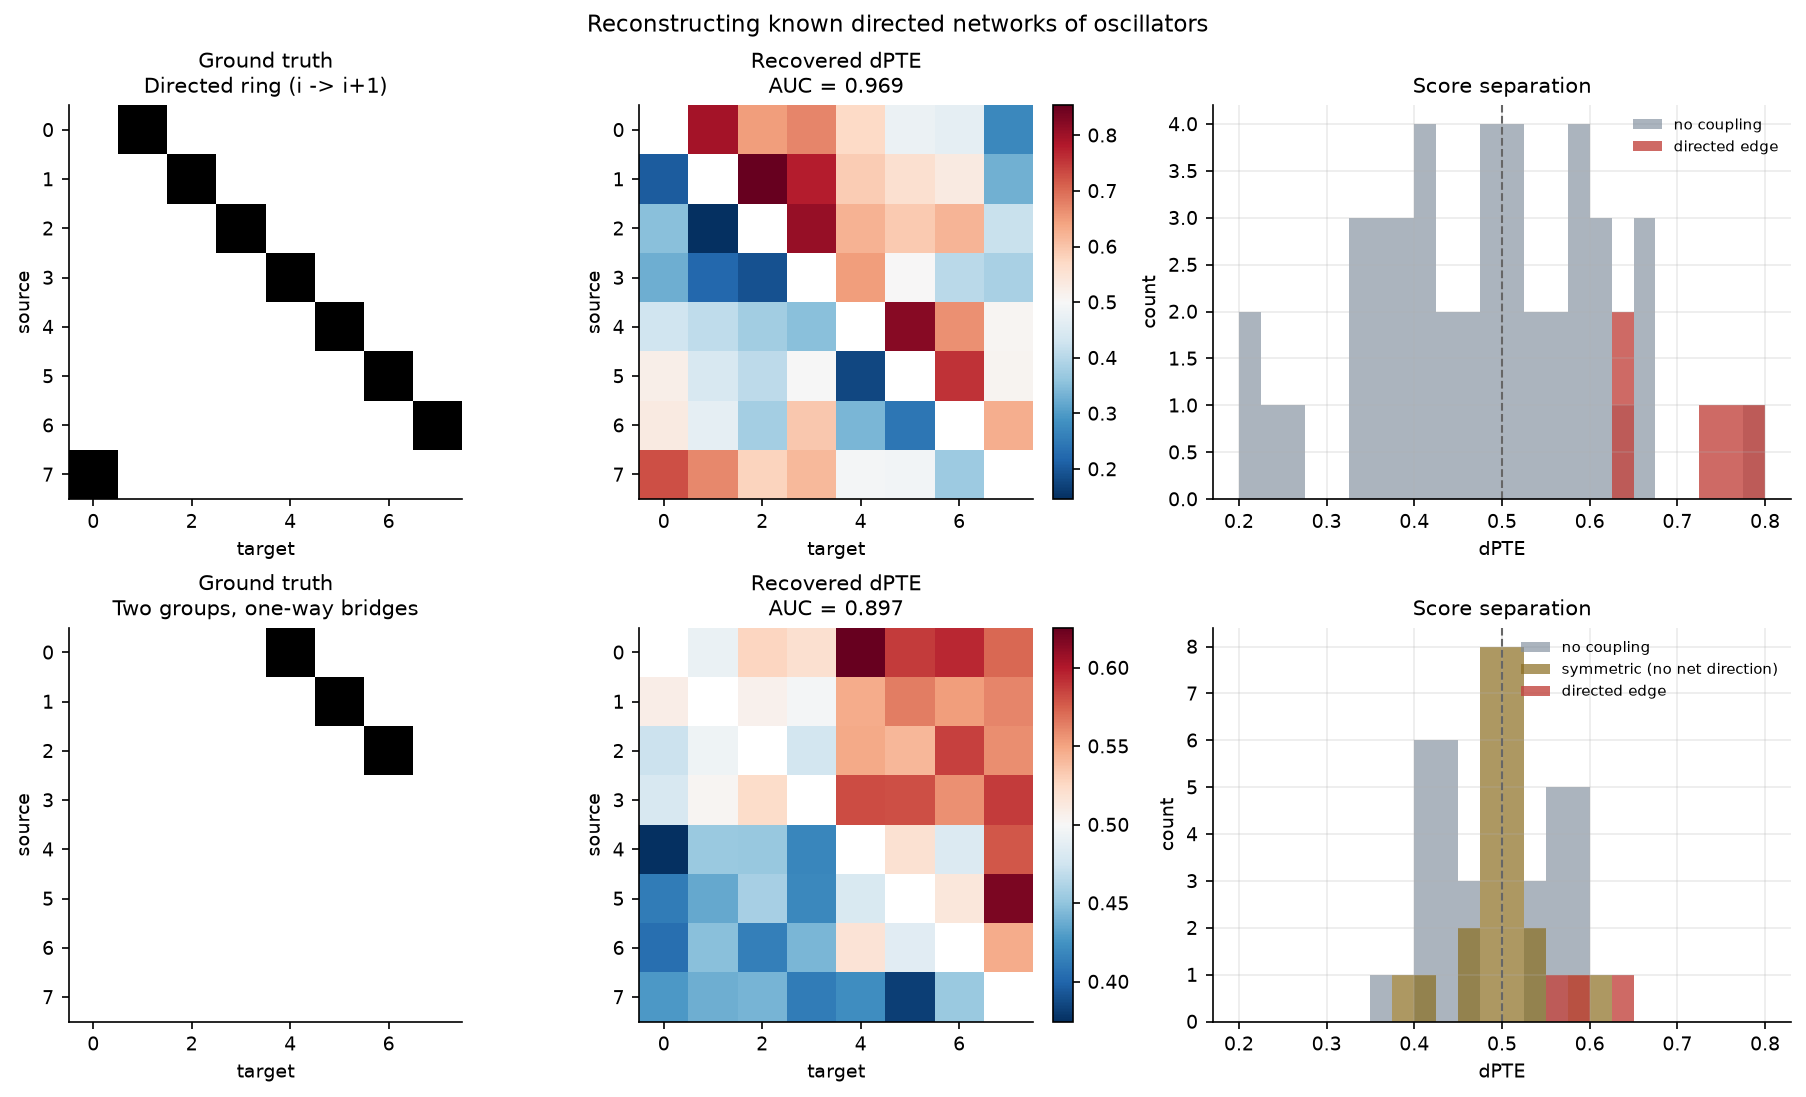
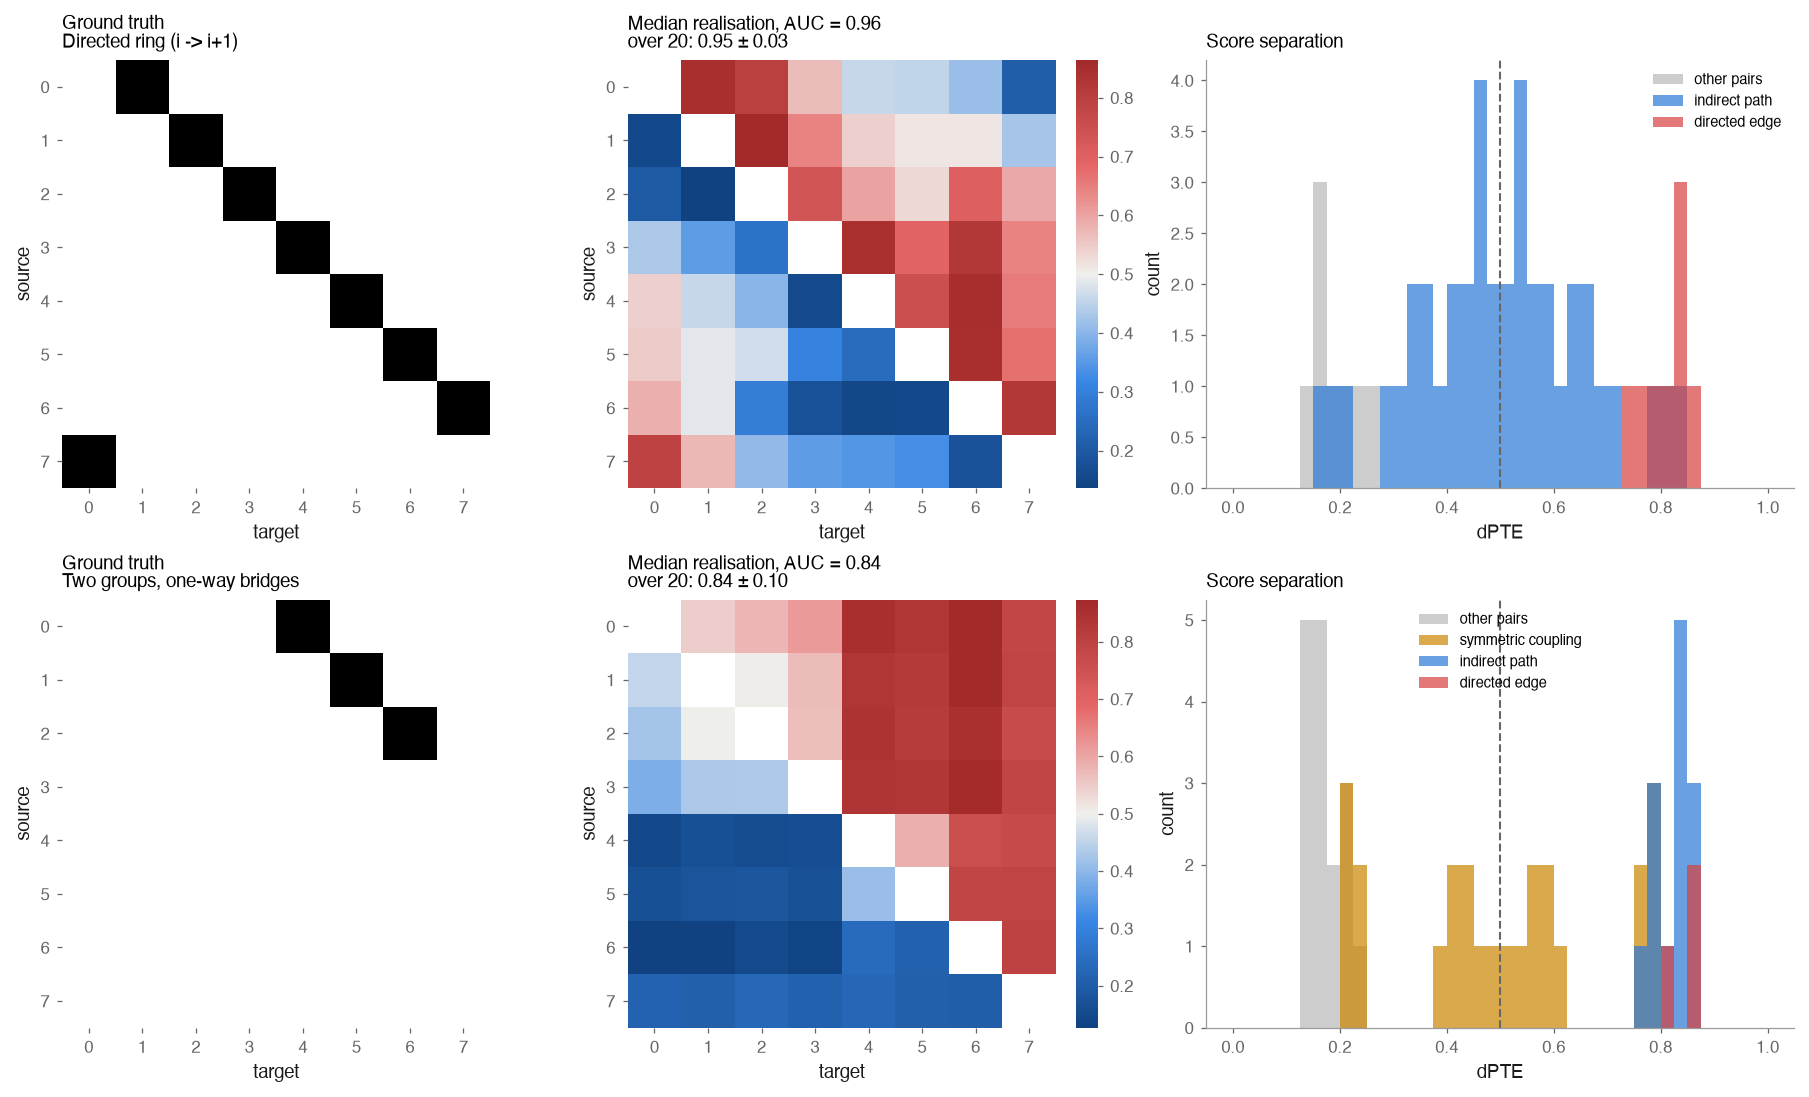
fix(examples): score the Kuramoto networks over 20 realisations (#107)
The published AUC 0.96-1.00 came from seed 1. Over 20 realisations the
ring scores 0.95 +- 0.03 and the two groups 0.84 +- 0.10 (as low as
0.59). The spread is indirect flow: a bridge's input spreads through its
synchronised group, so bridges beat their reverse (0.97) but not the
indirect A -> B pairs (0.67).

The check that symmetric pairs sit at 0.5 averaged both orientations,
which is 0.5 by construction. Measured by distance from 0.5, detuned
symmetric pairs read as directed (0.11, against 0.19 for a bridge), so
symmetric topologies are negative controls only with freq_spread=0.

diff --git a/examples/kuramoto_network.py b/examples/kuramoto_network.py
@@ -4,11 +4,23 @@ Can pyPTE reconstruct a known directed network of oscillators?
 
 Two ground-truth topologies are simulated with delayed Kuramoto oscillators:
 a directed ring, where every node drives its successor, and two internally
-dense groups joined by a single one-way bridge.
+dense groups joined by one-way bridges. Each is run over 20 noise
+realisations, because one realisation can flatter or sink the score.
 
 Ground truth is sparse but dPTE gives every ordered pair a value, so the
 recovered matrix is dense no matter what. Scored with AUC rather than a
 hand-picked threshold: the chance a true edge outranks a non-edge.
+
+The ring is recovered reliably (AUC 0.95 +- 0.03). The two groups are not
+(0.84 +- 0.10, as low as 0.59): a bridge's input spreads through its whole,
+tightly synchronised group, so every A -> B pair carries real flow. Bridges
+outrank their own reverse almost always (0.97) but outrank those indirect
+paths only 0.67 of the time.
+
+Symmetric coupling does not read as 0.5 either. The oscillators' natural
+frequencies differ, and that alone gives each symmetric pair a direction,
+on average 0.11 from 0.5 against 0.19 for a bridge; with identical
+frequencies it drops to 0.02.
 
 Run with::
 
@@ -65,46 +77,72 @@ def evaluate(coupling: npt.NDArray, *, n_samples: int, seed: int) -> dict:
     dPTE, _ = PTE(signal)
 
     directed = kuramoto.net_flow(coupling)
-    # symmetric pairs are coupled but carry no net direction, so they belong to
-    # neither class: scoring them as edges would punish the correct answer
+    # symmetric pairs have no direction in the ground truth, so they belong to
+    # neither class
     symmetric = (coupling > 0) & (coupling == coupling.T)
+    # pairs a directed path joins without an edge of their own: real flow, but
+    # indirect, so a non-edge that should not be expected to score at 0.5
+    reach = np.linalg.matrix_power(
+        np.eye(len(coupling)) + (coupling > 0), len(coupling)
+    )
+    indirect = (reach > 0) & ~directed & ~directed.T & ~symmetric
+    np.fill_diagonal(indirect, False)
 
     considered = off_diagonal(~symmetric)
     truth = off_diagonal(directed)[considered]
     scores = off_diagonal(dPTE)[considered]
+    # dPTE[i, j] + dPTE[j, i] = 1, so a mean over both orientations of a pair
+    # is 0.5 whatever happens; the distance from 0.5 is what can be judged
+    distance = np.abs(dPTE - 0.5)
 
     return {
         "dPTE": dPTE,
         "truth": directed,
         "symmetric": symmetric,
+        "indirect": indirect,
         "auc": auc(scores, truth),
-        "edge_mean": scores[truth].mean(),
-        "nonedge_mean": scores[~truth].mean(),
-        "symmetric_mean": off_diagonal(dPTE)[off_diagonal(symmetric)].mean()
+        "auc_indirect": auc(
+            np.concatenate([dPTE[directed], dPTE[indirect]]),
+            np.arange(directed.sum() + indirect.sum()) < directed.sum(),
+        ),
+        "auc_reverse": auc(
+            np.concatenate([dPTE[directed], dPTE[directed.T]]),
+            np.arange(2 * directed.sum()) < directed.sum(),
+        ),
+        "edge_distance": distance[directed].mean(),
+        "symmetric_distance": distance[symmetric].mean()
         if symmetric.any()
         else float("nan"),
     }
 
 
+def summarise(runs: list[dict], key: str) -> npt.NDArray:
+    return np.array([run[key] for run in runs])
+
+
 def main(quick: bool = False) -> None:
     use_house_style()
     n_samples = 4000 if quick else 12000
+    seeds = range(1, 6) if quick else range(1, 21)
 
     topologies = {
         "Directed ring (i -> i+1)": kuramoto.ring_with_shortcut(8, strength=3.0),
         "Two groups, one-way bridges": kuramoto.two_groups(4, within=2.0, across=3.0),
     }
 
-    results = {}
+    runs = {}
     for name, coupling in topologies.items():
-        print(f"simulating: {name} ...")
-        results[name] = evaluate(coupling, n_samples=n_samples, seed=1)
+        print(f"simulating: {name}, {len(seeds)} realisations ...")
+        runs[name] = [evaluate(coupling, n_samples=n_samples, seed=s) for s in seeds]
 
     fig, axes = plt.subplots(
         2, 3, figsize=(12, 7.2), constrained_layout=True, width_ratios=[1, 1, 1.15]
     )
 
-    for row, (name, res) in enumerate(results.items()):
+    for row, (name, realisations) in enumerate(runs.items()):
+        aucs = summarise(realisations, "auc")
+        # show the median realisation, not the best one
+        res = realisations[int(np.argsort(aucs)[len(aucs) // 2])]
         plot_matrix(
             axes[row, 0],
             res["truth"].astype(float),
@@ -117,7 +155,8 @@ def main(quick: bool = False) -> None:
         plot_matrix(
             axes[row, 1],
             res["dPTE"],
-            title=f"Recovered dPTE\nAUC = {res['auc']:.3f}",
+            title=f"Median realisation, AUC = {res['auc']:.2f}\n"
+            f"over {len(aucs)}: {aucs.mean():.2f} ± {aucs.std():.2f}",
             center_on_half=True,
             mask_diagonal=True,
         )
@@ -126,67 +165,74 @@ def main(quick: bool = False) -> None:
         flat_dPTE = off_diagonal(res["dPTE"])
         flat_directed = off_diagonal(res["truth"])
         flat_symmetric = off_diagonal(res["symmetric"])
-        bins = np.linspace(0.2, 0.8, 25)
+        flat_indirect = off_diagonal(res["indirect"])
+        bins = np.linspace(0.0, 1.0, 41)
 
-        ax.hist(
-            flat_dPTE[~flat_directed & ~flat_symmetric],
-            bins=bins,
-            alpha=0.65,
-            label="no coupling",
-            color=style.NULL,
-        )
-        if flat_symmetric.any():
-            ax.hist(
-                flat_dPTE[flat_symmetric],
-                bins=bins,
-                alpha=0.7,
-                label="symmetric (no net direction)",
-                color=style.AMBER,
-            )
-        ax.hist(
-            flat_dPTE[flat_directed],
-            bins=bins,
-            alpha=0.8,
-            label="directed edge",
-            color=style.OBS,
-        )
+        for members, label, color in [
+            (
+                ~(flat_directed | flat_symmetric | flat_indirect),
+                "other pairs",
+                style.NULL,
+            ),
+            (flat_symmetric, "symmetric coupling", style.AMBER),
+            (flat_indirect, "indirect path", style.BLUE),
+            (flat_directed, "directed edge", style.OBS),
+        ]:
+            if members.any():
+                ax.hist(
+                    flat_dPTE[members], bins=bins, alpha=0.7, label=label, color=color
+                )
         ax.axvline(0.5, ls="--", lw=1, color="0.4")
         ax.set(xlabel="dPTE", ylabel="count", title="Score separation")
-        ax.legend(fontsize=7)
+        ax.legend(fontsize=7, loc="upper center" if row else "upper right")
 
     save(fig, FIGURES / "kuramoto_network.png")
 
-    print("\nresults")
-    for name, res in results.items():
+    ring, groups = runs.values()
+    print(f"\nresults over {len(seeds)} realisations, mean ± sd (min)")
+    for name, realisations in runs.items():
         print(f"  {name}")
-        print(f"    AUC, directed vs uncoupled   {res['auc']:.3f}   (0.5 = chance)")
-        print(f"    mean dPTE on directed edges  {res['edge_mean']:.3f}")
-        print(f"    mean dPTE on uncoupled pairs {res['nonedge_mean']:.3f}")
-        if not np.isnan(res["symmetric_mean"]):
-            print(
-                f"    mean dPTE on symmetric pairs {res['symmetric_mean']:.3f}"
-                "   (expected ~0.5: coupled, but no net direction)"
-            )
+        for key, label in [
+            ("auc", "AUC, edges vs all other pairs"),
+            ("auc_reverse", "AUC, edges vs their reverse"),
+            ("auc_indirect", "AUC, edges vs indirect paths"),
+            ("edge_distance", "|dPTE - 0.5| on edges"),
+            ("symmetric_distance", "|dPTE - 0.5| on symmetric pairs"),
+        ]:
+            values = summarise(realisations, key)
+            if not np.isnan(values).all():
+                print(
+                    f"    {label:<32} {values.mean():.3f} ± {values.std():.3f}"
+                    f"  ({values.min():.3f})"
+                )
+        aucs = summarise(realisations, "auc")
+        print(f"    realisations with AUC below 0.75: {(aucs < 0.75).sum()}")
 
-    for name, res in results.items():
-        assert res["auc"] > 0.75, f"{name}: directed edges should outrank non-edges"
-        assert res["edge_mean"] > res["nonedge_mean"], (
-            f"{name}: directed edges must score above uncoupled pairs"
-        )
-        if not np.isnan(res["symmetric_mean"]):
-            assert abs(res["symmetric_mean"] - 0.5) < 0.05, (
-                f"{name}: symmetrically coupled pairs carry no net direction and "
-                "should sit at 0.5"
-            )
+    ring_auc = summarise(ring, "auc")
+    group_auc = summarise(groups, "auc")
+    assert ring_auc.mean() > 0.9 and ring_auc.min() > 0.8, (
+        "every realisation of the ring should rank its edges well"
+    )
+    assert summarise(groups, "auc_reverse").mean() > 0.9, (
+        "bridges should be reported the right way round"
+    )
+    assert summarise(groups, "auc_indirect").mean() < 0.85, (
+        "indirect A -> B paths should compete with the bridges"
+    )
+    symmetric = summarise(groups, "symmetric_distance").mean()
+    assert 0.05 < symmetric < summarise(groups, "edge_distance").mean(), (
+        "detuned symmetric pairs should read as directed, if less than bridges"
+    )
 
     print(
-        "\nverified: directed edges outrank uncoupled pairs, while symmetrically"
-        "\n          coupled pairs correctly sit at 0.5. dPTE measures direction,"
-        "\n          not the presence of coupling, so a strong bidirectional link"
-        "\n          is invisible to it by design."
-        "\n\n          The recovered matrix is dense while the truth is sparse, so"
-        "\n          turning these scores into a graph needs a significance test,"
-        "\n          not a threshold picked by eye."
+        "\nverified: the ring's edges are recovered in every realisation, and"
+        "\n          bridges are reported the right way round. But an edge into a"
+        "\n          synchronised group looks like an edge into each member, and"
+        "\n          symmetric coupling between detuned oscillators reads as"
+        "\n          directed. dPTE ranks directed paths, not edges."
+        "\n\n          One realisation is not a result: single realisations of the"
+        f"\n          two groups scored anywhere from {group_auc.min():.2f} to"
+        f" {group_auc.max():.2f}."
     )
 
 

diff --git a/examples/models/kuramoto.py b/examples/models/kuramoto.py
@@ -104,9 +104,10 @@ def global_coupling(m: int, strength: float = 6.0) -> npt.NDArray:
     """Mean-field coupling: every oscillator drives every other equally.
 
     The classic Kuramoto arrangement, normalised by m so the total drive per
-    oscillator does not grow with network size. It is symmetric, so it carries
-    no net direction anywhere and a directional measure should report nothing.
-    Included precisely because that is a useful negative control.
+    oscillator does not grow with network size. The coupling is symmetric, but
+    it is a negative control for a directional measure only with
+    ``freq_spread=0``: oscillators with different natural frequencies read as
+    directed even when they are coupled equally both ways.
     """
     coupling = np.full((m, m), strength / m)
     np.fill_diagonal(coupling, 0.0)
@@ -120,8 +121,8 @@ def local_coupling(
 
     With ``directed=True`` each oscillator drives only its clockwise
     neighbours, producing travelling activity with a definite direction. With
-    ``directed=False`` the coupling is symmetric, which synchronises locally
-    but again leaves no net direction to find.
+    ``directed=False`` the coupling is symmetric, which synchronises locally;
+    as with global coupling, detuned oscillators can still read as directed.
 
     Contrasting local with global coupling is the distinction the original
     examples drew: mean-field influence spread thinly over the whole network,
@@ -144,10 +145,10 @@ def two_groups(
 ) -> npt.NDArray:
     """Two symmetrically wired groups joined by one-way bridges from A to B.
 
-    Coupling inside each group is deliberately symmetric, so those pairs are
-    strongly coupled but carry no net direction. A directional measure should
-    therefore report nothing for them, which makes this topology a test of
-    whether pyPTE distinguishes direction from mere coupling.
+    Coupling inside each group is deliberately symmetric, so its pairs have no
+    direction in the ground truth. With the default frequency spread they still
+    read as directed, and the bridges' input spreads through each group, so
+    this topology tests how far direction can be told from coupling.
     """
     m = 2 * group_size
     coupling = np.zeros((m, m))

diff --git a/examples/README.md b/examples/README.md
@@ -49,14 +49,21 @@ regardless of effect size.
 ### 3. `kuramoto_network.py` — recovering a known graph
 
 Delayed Kuramoto oscillators in two topologies: a directed ring, and two
-symmetrically-wired groups joined by one-way bridges. Scored with AUC (0.96 and
-1.00), which needs no threshold, because the recovered matrix is dense while the
-truth is sparse.
+symmetrically-wired groups joined by one-way bridges, each over 20 noise
+realisations. Scored with AUC, which needs no threshold, because the recovered
+matrix is dense while the truth is sparse.
 
-The two-group case makes a distinction that is easy to get wrong:
-**dPTE measures direction, not the presence of coupling.** The strongly but
-*symmetrically* coupled pairs inside each group sit at exactly 0.5. That is the
-correct answer, not a miss — there is no net direction to find.
+- The ring is recovered in every realisation: AUC 0.95 ± 0.03, lowest 0.88.
+- The two groups score 0.84 ± 0.10, as low as 0.59, and 4 of 20 realisations
+  fall below 0.75. Bridges are reported the right way round (AUC 0.97 against
+  their reverse), but a bridge's input spreads through its synchronised group,
+  so the indirect A → B pairs compete with it (0.67 ± 0.18).
+- Symmetrically coupled pairs do not sit at 0.5. Their natural frequencies
+  differ, and that gives each pair a direction: 0.11 from 0.5 on average,
+  against 0.19 for a bridge. Averaging a pair's two orientations always gives
+  exactly 0.5, which is how an earlier version of this example missed it.
+
+A single realisation would have given 1.00 for the two groups (seed 1) or 0.59.
 
 ### 4. `neural_mass_network.py` — how much data, and what more of it buys
 
@@ -128,8 +135,8 @@ coupling, so the example uses `Generic2dOscillator`.
 - `models/kuramoto.py` — delayed Kuramoto oscillators with arbitrary directed
   coupling, plus topology builders: `ring_with_shortcut`, `two_groups`,
   `global_coupling` (mean-field) and `local_coupling` (nearest-neighbour). The
-  symmetric variants are useful as negative controls, since a directional
-  measure should correctly find nothing in them.
+  symmetric variants are negative controls only with `freq_spread=0`: detuned
+  oscillators read as directed even when the coupling is symmetric.
 - `models/neural_mass_model.py` — coupled Jansen-Rit columns, integrated with
   stochastic Heun and a delay ring buffer.
 - `utils/plotting.py` — shared figure style and a connectivity-matrix helper

diff --git a/docs/guide/pitfalls.md b/docs/guide/pitfalls.md
@@ -57,12 +57,23 @@ two needs a conditional measure
 → [`epoched_analysis.py`](https://github.com/patrk/pyPTE/blob/main/examples/epoched_analysis.py),
 [`neural_mass_network.py`](https://github.com/patrk/pyPTE/blob/main/examples/neural_mass_network.py)
 
-## Symmetric coupling is invisible — by design
+## Symmetric coupling is not a no-direction control
 
-Strongly but *symmetrically* coupled channels sit at exactly `0.500`. That is
-the correct answer, not a miss: `dPTE` measures **net** direction, and a
-balanced bidirectional link has none. Score it against raw connectivity and you
-will penalise it for being right.
+Equal coupling weights both ways do not mean equal information flow. In the
+Kuramoto example's two-group network, symmetrically coupled oscillators whose
+natural frequencies differ (sd 0.5 Hz around 10 Hz) sit on average **0.11**
+from 0.5, against 0.19 for the one-way bridges; with identical frequencies
+the gap shrinks to 0.02. The sign follows neither the natural frequencies nor
+which oscillator leads in phase.
+
+Averaging `dPTE` over both orientations of a pair cannot detect this:
+`dPTE[i, j] + dPTE[j, i] = 1`, so that mean is 0.5 whatever the data. Judge a
+pair by its distance from 0.5.
+
+The same network shows the indirect-path limit above. A bridge's input
+spreads through its tightly synchronised group, so every A → B pair carries
+real flow: bridges outrank their own reverse with AUC 0.97 but outrank those
+indirect pairs only 0.67 ± 0.18 of the time, over 20 realisations.
 
 → [`kuramoto_network.py`](https://github.com/patrk/pyPTE/blob/main/examples/kuramoto_network.py)
 

diff --git a/docs/examples_overview.md b/docs/examples_overview.md
@@ -14,7 +14,7 @@ uv run python -m examples.two_node_coupling      # add --quick for a faster run
 | example | what it establishes |
 |---|---|
 | [`two_node_coupling`](https://github.com/patrk/pyPTE/blob/main/examples/two_node_coupling.py) | direction is recovered; SNR asymmetry fakes it |
-| [`kuramoto_network`](https://github.com/patrk/pyPTE/blob/main/examples/kuramoto_network.py) | known directed graphs recovered, AUC 0.96–1.00 |
+| [`kuramoto_network`](https://github.com/patrk/pyPTE/blob/main/examples/kuramoto_network.py) | known directed graphs over 20 realisations: a ring at AUC 0.95, two synchronised groups at 0.84 ± 0.10 |
 | [`neural_mass_network`](https://github.com/patrk/pyPTE/blob/main/examples/neural_mass_network.py) | recording length, and why indirect paths come with the edges, on Jansen-Rit columns |
 | [`significance_testing`](https://github.com/patrk/pyPTE/blob/main/examples/significance_testing.py) | what a surrogate test does, drawn out |
 | [`epoched_analysis`](https://github.com/patrk/pyPTE/blob/main/examples/epoched_analysis.py) | full epoched two-condition pipeline |

diff --git a/README.md b/README.md
@@ -91,7 +91,7 @@ noisier one whatever the coupling.
 
 - [Tutorial](https://patrk.github.io/pyPTE/tutorial/how_pte_works.html): the measure built up from phase histograms, figure by figure
 - [Running a real analysis](https://patrk.github.io/pyPTE/guide/analysis.html): surrogate tests, epoched group tests, multiple comparisons
-- [What can fool it](https://patrk.github.io/pyPTE/guide/pitfalls.html): unequal noise, indirect paths, symmetric coupling
+- [What can fool it](https://patrk.github.io/pyPTE/guide/pitfalls.html): unequal noise, indirect paths, detuned oscillators
 - [Examples](https://patrk.github.io/pyPTE/examples.html) and [API reference](https://patrk.github.io/pyPTE/api.html)
 
 ## Contributing
